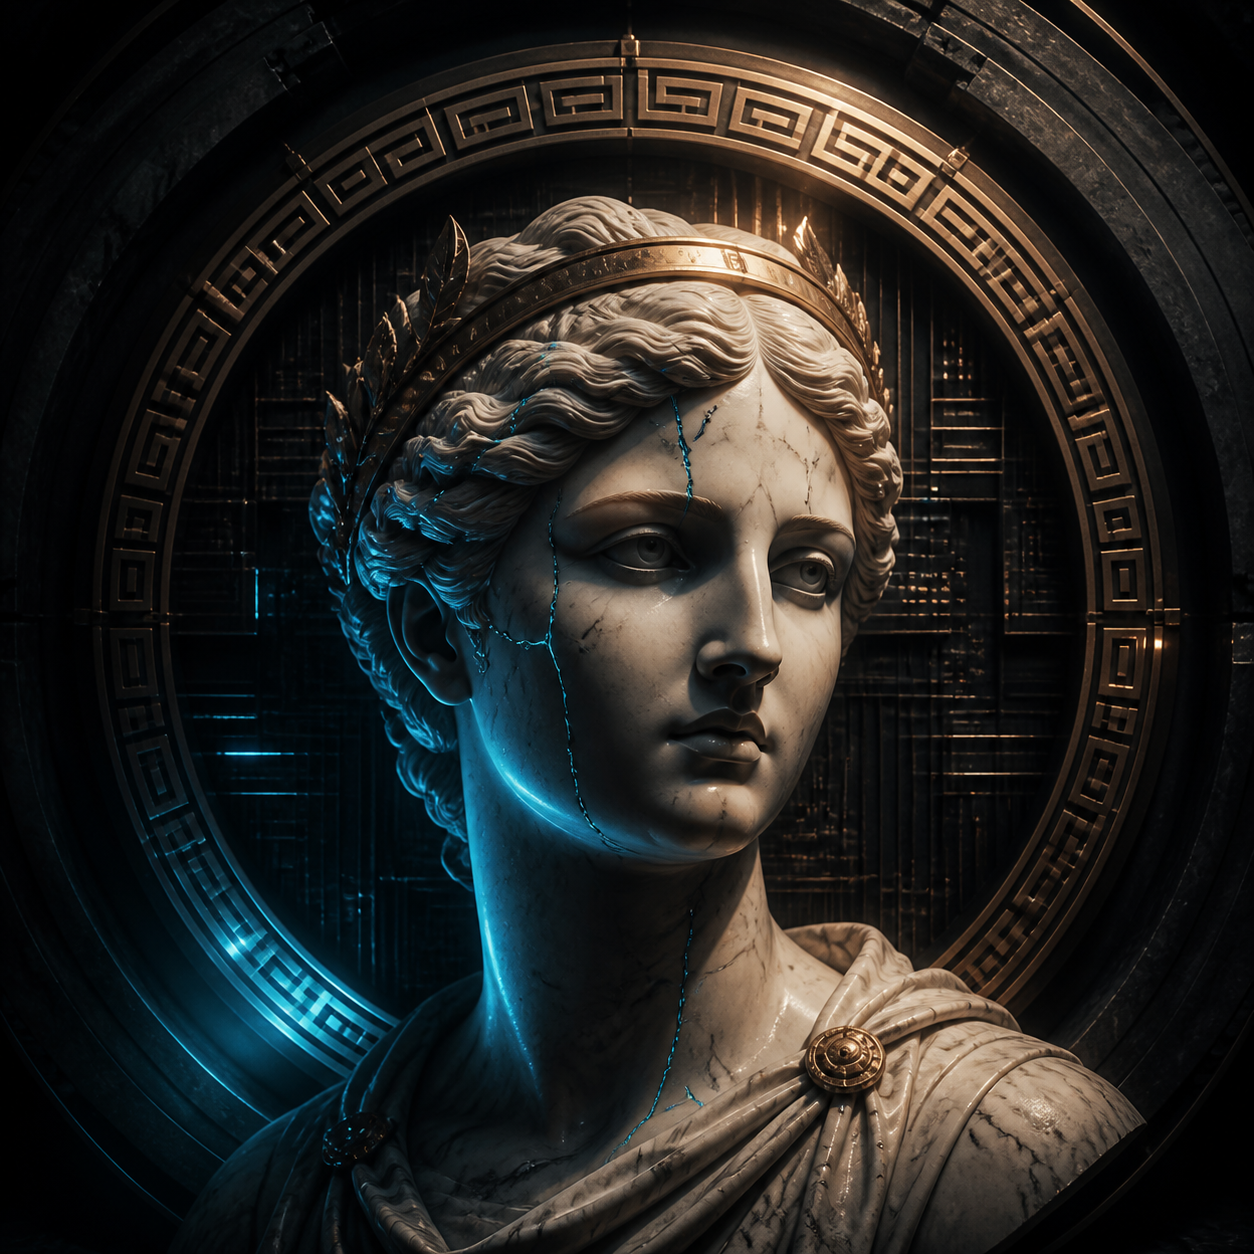
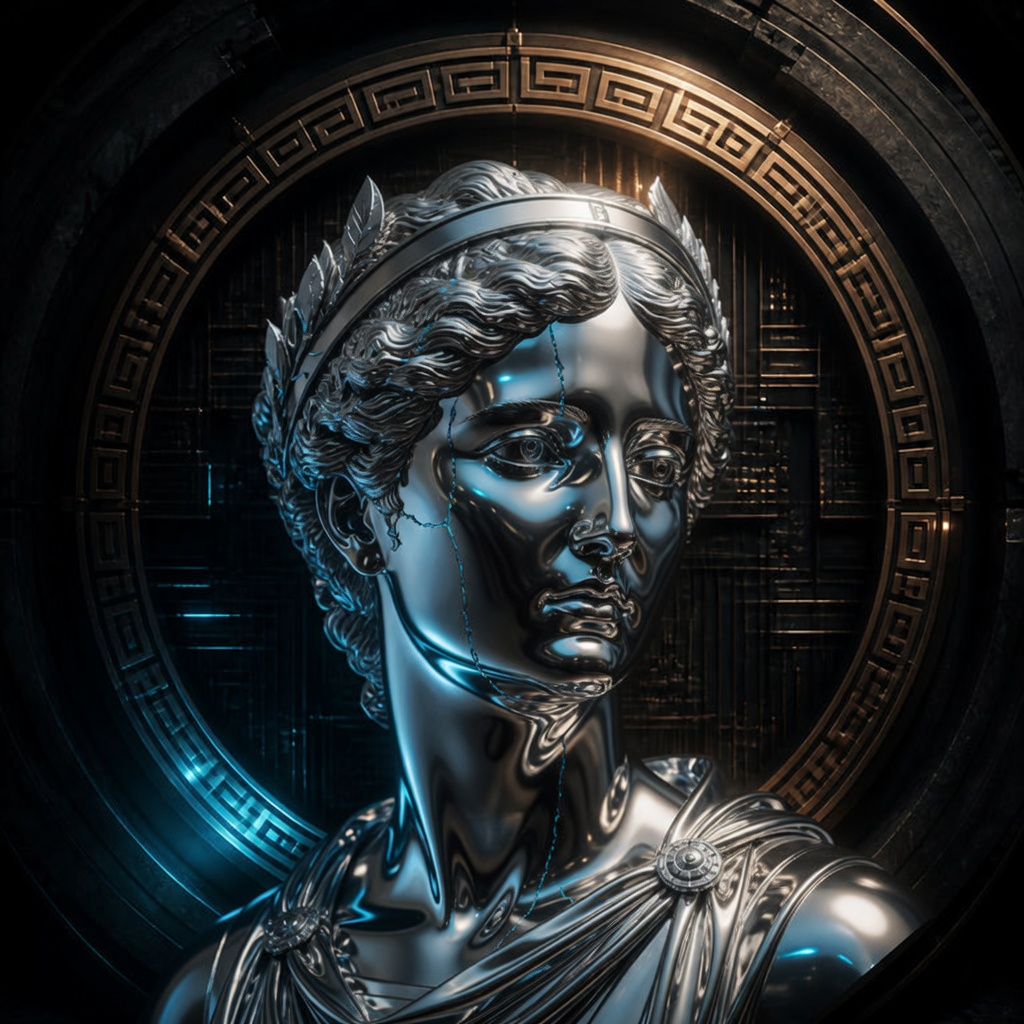
docs: recast Muse brand statue as chrome

Changed region(s): [[0.1562, 0.1562, 0.9062, 1.0]]

diff --git a/assets/brand/PROMPTS.md b/assets/brand/PROMPTS.md
@@ -1,43 +1,16 @@
 # Muse B70 visual identity prompts
 
-Generated with OpenAI image generation in `stylized-concept` mode. The images
-contain no generated typography so project naming can remain crisp and editable.
+Chrome Greek Muse, same character language as the rest of the B70 art.
+No generated typography.
 
 ## Hero
 
-> Create a premium ultra-wide repository hero for Muse B70, a high-performance
-> AI inference server optimized for Intel Arc B70. Place an elegant neoclassical
-> marble bust of a serene Greek Muse on the right third of a vast, dark
-> tech-noir compute sanctuary that subtly echoes a Greek temple. Fine marble
-> fractures reveal restrained cyan computational light and delicate bronze
-> circuit filaments. Add a thin geometric halo inspired by a Greek meander and
-> GPU die. Use museum-grade sculpture, cinematic architectural science fiction,
-> deep chiaroscuro, Carrara marble, aged bronze, obsidian black, electric cyan,
-> and generous clean negative space on the left. No text, logos, trademarks,
-> watermark, UI, glowing eyes, weapons, rainbow neon, steampunk clutter, or
-> generic cyberpunk city.
+> Recast the existing ultra-wide Muse B70 hero: keep composition, pose, halo, and dark temple hall. The Greek Muse bust is polished liquid chrome, not marble — mirror-finish chrome skin, hair, and drapery with hard specular highlights and cyan seam reflections. Serene neoclassical Muse, not a robot. No text.
 
 ## Emblem
 
-> Create a square repository/social identity artwork for Muse B70. Center a
-> calm marble head of a Greek Muse in a near-black futuristic temple niche. A
-> minimal bronze Greek-meander halo doubles as an abstract silicon-die diagram;
-> restrained cyan light appears in the hair and marble fractures. Use museum
-> photography, sophisticated hard-surface science fiction, Rembrandt-style
-> chiaroscuro, Carrara marble, antique bronze, carbon black, and a strong icon
-> silhouette with breathing room around the halo. No text, numbers, logos,
-> trademarks, watermark, glowing eyes, weapons, armor, rainbow neon, anime, or
-> plastic skin.
+> Recast the square emblem: keep pose, bronze meander halo, and dark niche. The Muse head is polished liquid chrome, not marble, with cyan seam reflections. Serene neoclassical bust. No text.
 
 ## Poster
 
-> Create a vertical 4:5 release poster for Muse B70, a single-seat,
-> maximum-context AI serving system. Show one poised full-body marble statue of
-> a Greek Muse in a monumental black-stone server hall shaped like an abstract
-> hypostyle temple. Classical drapery becomes precise geometric folds; one hand
-> rests near an abstract bronze compute monolith. Subtle cyan light glows only
-> within repaired marble seams. Use cinematic key art, realistic museum
-> sculpture, symmetrical architectural depth, severe chiaroscuro, black basalt,
-> pale marble, aged bronze, muted indigo, and controlled negative space. No
-> text, logo, trademark, watermark, extra figures, weapons, nudity, holographic
-> UI, Matrix code rain, rainbow light, fantasy armor, or steampunk detail.
+> Recast the 4:5 poster: keep full-body pose, hall, columns, and bronze monolith. The Muse statue is polished liquid chrome, not marble, with cyan seam reflections. Serene neoclassical Muse. No text.
